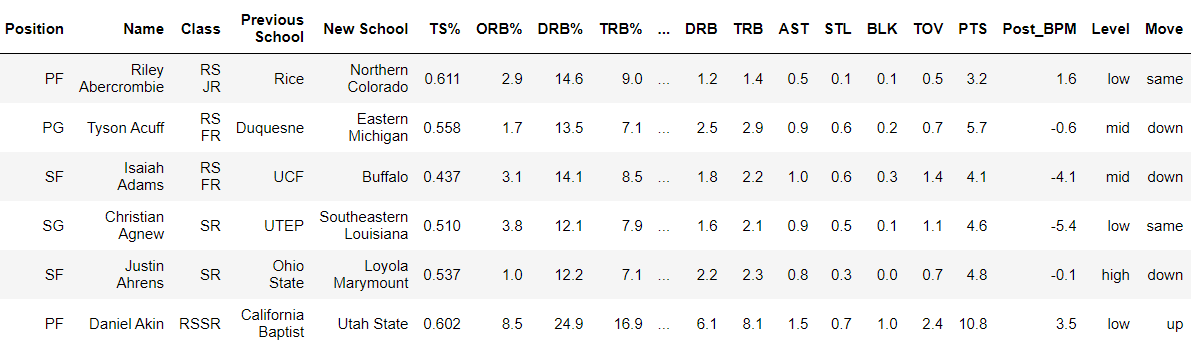
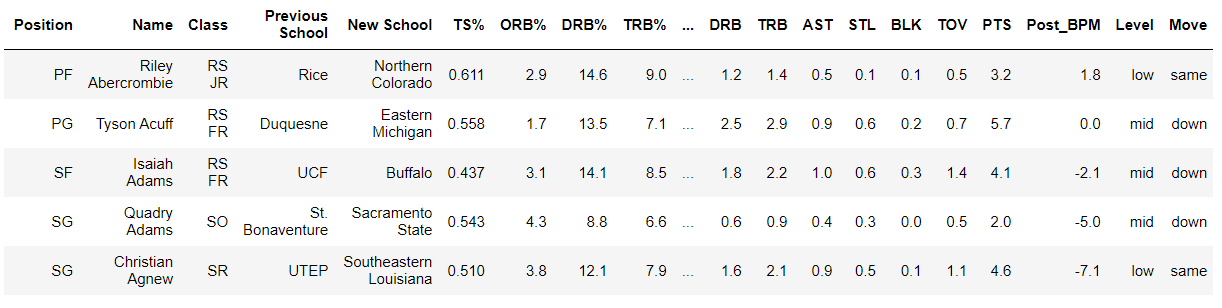
Added post season evaluation to transfer model

diff --git a/Transfer_Model.html b/Transfer_Model.html
@@ -95,8 +95,8 @@
                 <figure class="mt-5">
                     <!-- <figcaption class="mb-2 text-center fig-title-right">Figure 1</figcaption> -->
                     <img src="images/sample_transfer_data_2023.png" alt="Sample Transfer Data 2023">
-                    <figcaption class="mt-3 text-center">First 6 Rows of the Data I Used my Model on to Predict Effective 2022-23 Transfers</figcaption>
-                    <figcaption class="mt-1 text-center">Note: The Post_BPM column will be updated once the 2022-23 season is completed</figcaption>
+                    <figcaption class="mt-3 text-center">First 5 Rows of the Data I Used my Model on to Predict Effective 2022-23 Transfers</figcaption>
+                    
 
                 </figure>
             </div>
@@ -3474,15 +3474,39 @@
             </div>
         </div>
 
-        <!-- 6th row (Analysis) -->
-        <div class="align-top mt-5 mb-5" id="analysis">
-            <h6 class="display-6 text-center">Analysis</h6>
-            <p class="text-center mt-2">Come back for full analysis upon the completion of the 2022-23 season</p>
-        </div>
-
-        <!-- Return to homepage link -->
-        <div class="align-bottom mt-5 mb-3 text-center align-items-center">
-            <a href="#top">Return to Top of Page</a>
+        <!-- Sixth  row (Analysis) -->
+        <div class="row align-top mt-5 mb-5" id="analysis">
+          <h6 class="display-6 text-center">Analysis</h6>
+          <!-- Left column -->
+          <div class="col-6 col-lg-6 col-xl-6">
+              <p class="text-article mt-3">
+                After the completion of the 2022-23 NCAA basketball season, it is time to go back and evaluate my transfer predictions. As a reminder, 
+                the goal of this model is to identify “effective” college basketball transfers. What exactly “effective” means is subjective, but for 
+                this case I've decided to evaluate an effective transfer as one who has matched or exceeded a BPM value of two. I'm choosing this 
+                benchmark because I believe that outscoring an opponent by two more points per 100 possessions compared to an average producer qualifies 
+                you as an “effective” player. Once again, there are many valid opinions on what makes an effective player, and many of those pay no 
+                consideration to BPM. With that being said, BPM provides a quality advanced statistic that can serve as a useful benchmark for evaluation.
+              </p>
+              <p class="text-article mt-3">
+                Now for the question of how accurate my model was in predicting effective transfers. Of the 130 transfers that my model predicted to 
+                have a BPM value greater than or equal to 2, 93 of them actually did. In other words, for every four transfers my model predicted to
+                be “effective”, about three of them actually were (~72% accuracy).
+              </p>
+          </div>
+          <!-- Right column -->
+          <div class="col-6 col-lg-6 col-xl-6">
+              <p class="text-right mt-3"> 
+                Additionally, of those 37 errors, only 17 of them ended up being 
+                negative BPM players, meaning that the team was worse with that player on the floor compared to the average player production. This means 
+                that approximately 87% of the time my model predicted a player to be an “effective” transfer, they were at least not a negative contributor.
+                With how many variables go into a player's impact on their new team after transferring, I would say that the model did a strong job of 
+                accurately predicting effective transfers this year. In terms of errors going the other way around (predicted to NOT be effective but 
+                actually were) my model was also very accurate. Approximately 81% of the time a player was predicted to have a BPM less than 2 by my model, 
+                they actually did. With that being said, this kind of error is not as impactful as the first case. If you are expecting someone to be an 
+                effective player and they aren't, that is much more damaging than expecting someone to not be an effective player and being pleasantly 
+                surprised when they are.
+              </p>
+          </div>
         </div>
 
 

diff --git a/index.html b/index.html
@@ -174,7 +174,7 @@
                 <div class="carousel-inner">
                     <!-- first carousel item that appears when loading page -->
                     <div class="carousel-item active">
-                        <img src="images/ncaa_logo.png" class="d-block w-100 transfer-image" alt="Transfers">
+                        <img src="images/ncaa_logo.png" class="d-block w-100" alt="Transfers">
                         <div class="carousel-caption d-md-block">
                             <h6 class="display-6 carousel-title1">NCAA Transfer Model</h6>
                             <p>Click <a href="Transfer_Model.html" class="carousel-link1 text-decoration-underline">here</a> to learn more!</p>
